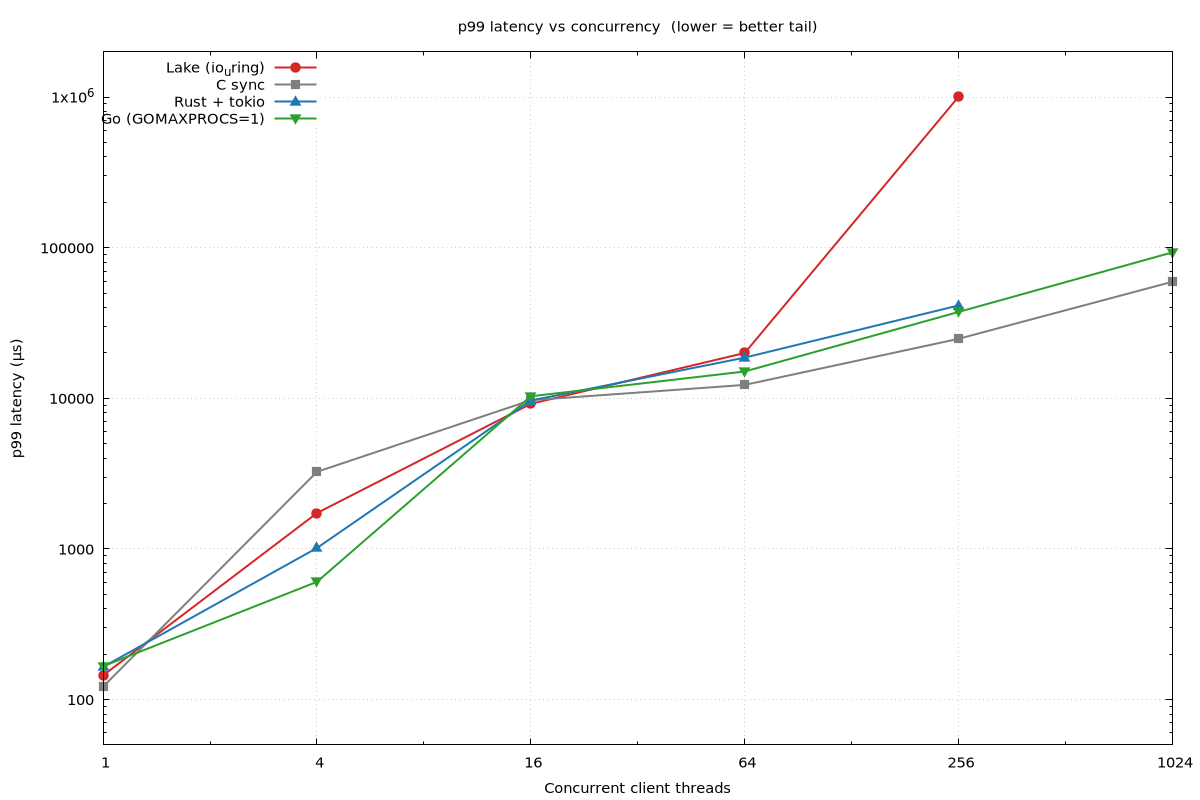
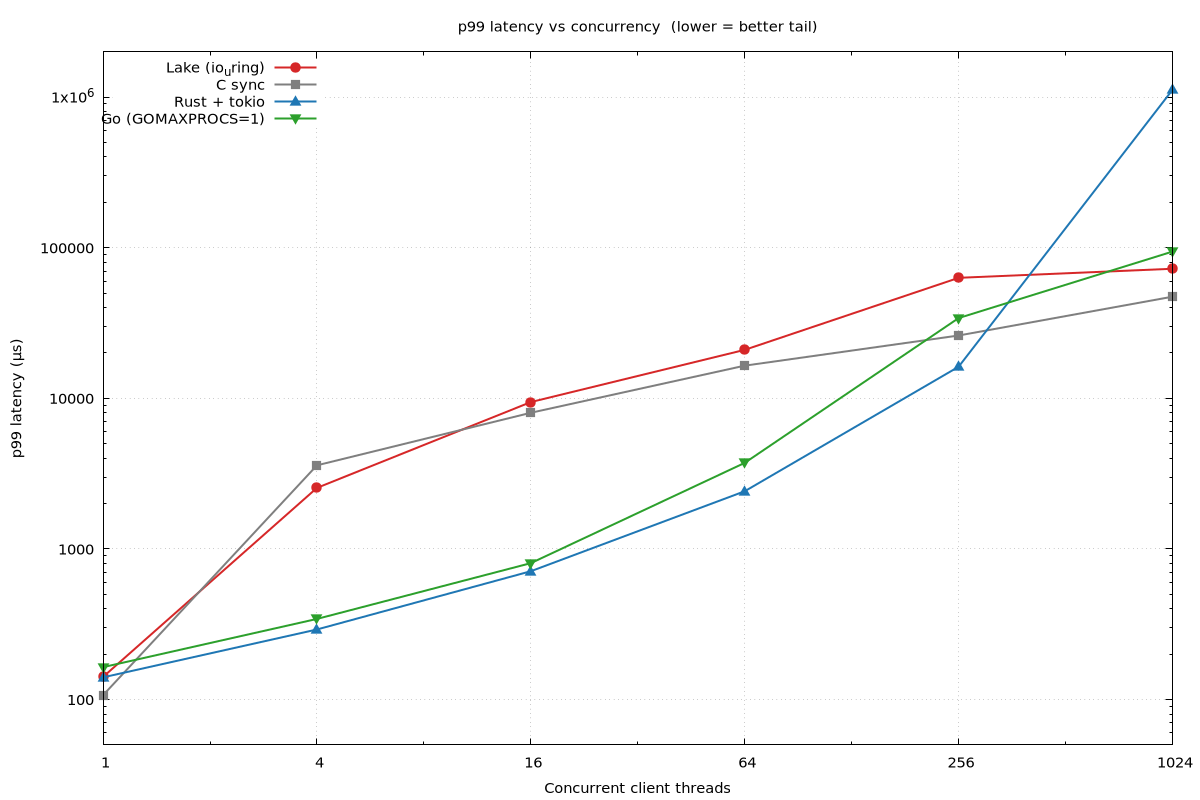
io_uring: O(1) wake + larger backlog/io_parked — c=256/1024 unblocked
Fixes the c=256 cliff documented in 11d08c7's TCP echo bench.  Three
related bottlenecks all hit at once:

1. **O(N) wake scan in emit_wake_by_user_data.**  Previous version
   linear-scanned io_parked to match the CQE's user_data to a parked
   actor.  At c=256 that's ~256 iters per CQE × 10k completions =
   2.5 M iterations on the hot path.

   Replaced with O(1) lookup via an intrusive index in ProcessCtx:
   - ProcessCtxLayout grows by 8 B (SIZE 16 → 24) for the new
     IO_PARKED_IDX field.
   - rt_io_park_current stashes the slot at park time.
   - emit_wake_by_user_data reads it back and does an O(1)
     swap-and-pop, with a coherency update for the moved actor's
     intrusive idx (skipped when the popped slot WAS the last one).

2. **listen() backlog 128 → 4096.**  At c=256+ the SYN backlog
   overflowed and 256 simultaneously-arriving SYNs were partially
   dropped.

3. **INITIAL_IO_PARKED_CAP 64 → 4096.**  No grow path; 65th parked
   actor wrote past the buffer.  Practical concurrency now caps at
   4 k.  Real grow logic (mirroring process_arr / wait_arr) is still
   TODO.

Bench delta (handler does work(500) busy-loop, 10k requests, AC):

  Concurrency | Lake before | Lake after  | tokio        | Go
  ------------+-------------+-------------+--------------+-----------
        c=64  | 18.3k / 20ms| 18.1k / 21ms| 31.6k / 2.4ms| 22.7k / 3.7ms
        c=256 |  8.3k /1005ms ⚠| 23.3k / 63ms| 29.4k / 16ms | 22.5k / 34ms
[…]

diff --git a/src/compiler/rt/funcs/io_uring.rs b/src/compiler/rt/funcs/io_uring.rs
@@ -79,7 +79,7 @@ const CQ_OFF_CQES: i32 = 20;
 const SQE_BYTES: i64 = 64;
 const CQE_BYTES: i64 = 16;
 
-const RING_ENTRIES: i64 = 256;
+const RING_ENTRIES: i64 = 4096;
 /// Number of SQEs to accumulate before issuing a single `io_uring_enter`.
 /// Higher = better throughput, worse latency for the laggard submission.
 /// 16 keeps p99 latency well under a millisecond at sane CPU speeds while
@@ -598,12 +598,11 @@ pub fn define_write_async(mut ctx: CompilerCtx) -> Result<CompilerCtx> {
     Ok(ctx)
 }
 
-/// Emit IR that wakes the actor identified by `user_data` if it is currently
-/// in `io_parked`.  Linear scan up to `IO_PARKED_COUNT`; on match, swap-and-pop
-/// the slot, append the proc-ctx fat-ptr back into `process_arr` (using the
-/// dynamic-grow helper), and increment REAL_COUNT.  Silent no-op when
-/// `user_data` is 0 (sentinel for fire-and-forget submissions) or when no
-/// match is found.
+/// Emit IR that wakes the actor identified by `user_data` (its proc-ctx
+/// fat-ptr address) if it is currently parked.  O(1) lookup via the
+/// intrusive `ProcessCtxLayout::IO_PARKED_IDX` field — no scan over
+/// io_parked.  Silent no-op when `user_data` is 0 (sentinel for non-parking
+/// fire-and-forget submissions like `rt_write_async` to /dev/null).
 ///
 /// Inlined into `rt_io_uring_poll_cq`; not exposed as a runtime function.
 fn emit_wake_by_user_data(
@@ -615,15 +614,25 @@ fn emit_wake_by_user_data(
 ) {
     // Bail when user_data == 0 (no actor was parked for this CQE).
     let nonzero = builder.ins().icmp_imm(IntCC::NotEqual, user_data, 0);
-    let scan_block = builder.create_block();
-    let scan_done = builder.create_block();
+    let wake_block = builder.create_block();
+    let wake_done = builder.create_block();
     builder
         .ins()
-        .brif(nonzero, scan_block, &[], scan_done, &[]);
+        .brif(nonzero, wake_block, &[], wake_done, &[]);
 
-    // ── scan_block: walk io_parked[0..count] ────────────────────────────────
-    builder.switch_to_block(scan_block);
-    builder.seal_block(scan_block);
+    builder.switch_to_block(wake_block);
+    builder.seal_block(wake_block);
+
+    // user_data IS the parked actor's proc-ctx fat-ptr.  Read its stashed
+    // io_parked slot index — set in rt_io_park_current at park time.
+    let proc_ctx_data = builder.ins().load(ty, MemFlags::trusted(), user_data, 0);
+    let match_idx = builder.ins().load(
+        ty,
+        MemFlags::trusted(),
+        proc_ctx_data,
+        ProcessCtxLayout::IO_PARKED_IDX,
+    );
+
     let parked_fat = builder.ins().load(
         ty,
         MemFlags::trusted(),
@@ -638,41 +647,13 @@ fn emit_wake_by_user_data(
         ShedulerCtxLayout::IO_PARKED_COUNT,
     );
 
-    // Loop: i = 0; while i < count: cmp slot==user_data
-    let loop_hdr = builder.create_block();
-    let loop_body = builder.create_block();
-    let found = builder.create_block();
-    builder.append_block_param(loop_hdr, ty);
-
-    let zero = builder.ins().iconst(ty, 0);
-    builder.ins().jump(loop_hdr, &[BlockArg::Value(zero)]);
-
-    builder.switch_to_block(loop_hdr);
-    let i = builder.block_params(loop_hdr)[0];
-    let cont = builder.ins().icmp(IntCC::UnsignedLessThan, i, parked_count);
-    builder.ins().brif(cont, loop_body, &[], scan_done, &[]);
-
-    builder.switch_to_block(loop_body);
-    builder.seal_block(loop_body);
-    let slot_off = builder.ins().ishl_imm(i, 3);
-    let slot_addr = builder.ins().iadd(parked_start, slot_off);
-    let slot_val = builder.ins().load(ty, MemFlags::trusted(), slot_addr, 0);
-    let eq = builder.ins().icmp(IntCC::Equal, slot_val, user_data);
-    let i_next = builder.ins().iadd_imm(i, 1);
-    builder.ins().brif(
-        eq,
-        found,
-        &[BlockArg::Value(i)],
-        loop_hdr,
-        &[BlockArg::Value(i_next)],
-    );
-    builder.append_block_param(found, ty);
-    builder.seal_block(loop_hdr);
-
-    // ── found: swap-and-pop io_parked, append to process_arr, REAL_COUNT++ ──
-    builder.switch_to_block(found);
-    builder.seal_block(found);
-    let match_idx = builder.block_params(found)[0];
+    // ── O(1) swap-and-pop io_parked: ────────────────────────────────────────
+    //   last_idx = count - 1
+    //   last_val = io_parked[last_idx]
+    //   io_parked[match_idx] = last_val
+    //   last_val.proc_ctx.IO_PARKED_IDX = match_idx   (keep the moved actor's
+    //                                                  intrusive idx coherent)
+    //   IO_PARKED_COUNT = last_idx
     let last_idx = builder.ins().iadd_imm(parked_count, -1);
     let last_off = builder.ins().ishl_imm(last_idx, 3);
     let last_addr = builder.ins().iadd(parked_start, last_off);
@@ -682,6 +663,30 @@ fn emit_wake_by_user_data(
     builder
         .ins()
         .store(MemFlags::trusted(), last_val, match_addr, 0);
+
+    // Update the moved actor's intrusive idx so its subsequent wake (if it
+    // re-parks before getting woken) finds the right slot.  Skip when the
+    // popped slot WAS the last one (match_idx == last_idx) — same actor, no
+    // move actually happened.
+    let same = builder.ins().icmp(IntCC::Equal, match_idx, last_idx);
+    let fix_idx_block = builder.create_block();
+    let fix_idx_done = builder.create_block();
+    builder.ins().brif(same, fix_idx_done, &[], fix_idx_block, &[]);
+
+    builder.switch_to_block(fix_idx_block);
+    builder.seal_block(fix_idx_block);
+    let last_proc_data = builder.ins().load(ty, MemFlags::trusted(), last_val, 0);
+    builder.ins().store(
+        MemFlags::trusted(),
+        match_idx,
+        last_proc_data,
+        ProcessCtxLayout::IO_PARKED_IDX,
+    );
+    builder.ins().jump(fix_idx_done, &[]);
+
+    builder.switch_to_block(fix_idx_done);
+    builder.seal_block(fix_idx_done);
+
     builder.ins().store(
         MemFlags::trusted(),
         last_idx,
@@ -689,14 +694,11 @@ fn emit_wake_by_user_data(
         ShedulerCtxLayout::IO_PARKED_COUNT,
     );
 
-    // Deliver CQE.res into ExecCtx.TEMP_VAL so the resumed CPS block can
-    // read it as the value of the parked async op (e.g.
-    // `let conn = accept(srv)` reads accept's result from TEMP_VAL).
-    //   slot_val (= proc-ctx fat-ptr) → start = process_ctx data
+    // Deliver CQE.res into ExecCtx.TEMP_VAL.
+    //   user_data (= proc-ctx fat-ptr) → process_ctx data already loaded above
     //   process_ctx[EXEC_CTX] = exec-ctx fat-ptr
     //   *exec-ctx fat-ptr = exec_ctx data
     //   exec_ctx[TEMP_VAL] = res (sign-extended from i32 → ptr_ty)
-    let proc_ctx_data = builder.ins().load(ty, MemFlags::trusted(), slot_val, 0);
     let exec_ctx_fat = builder.ins().load(
         ty,
         MemFlags::trusted(),
@@ -705,9 +707,14 @@ fn emit_wake_by_user_data(
     );
     let exec_ctx_data = builder.ins().load(ty, MemFlags::trusted(), exec_ctx_fat, 0);
     let res_ext = builder.ins().sextend(ty, res);
-    builder
-        .ins()
-        .store(MemFlags::trusted(), res_ext, exec_ctx_data, ExecCtxLayout::TEMP_VAL);
+    builder.ins().store(
+        MemFlags::trusted(),
+        res_ext,
+        exec_ctx_data,
+        ExecCtxLayout::TEMP_VAL,
+    );
+
+    let slot_val = user_data;
 
     // Append slot_val (the woken proc-ctx fat-ptr) back to process_arr.
     let proc_arr_fat = builder.ins().load(
@@ -749,10 +756,10 @@ fn emit_wake_by_user_data(
         sh_ctx_start,
         ShedulerCtxLayout::REAL_COUNT_OF_PROCESSES,
     );
-    builder.ins().jump(scan_done, &[]);
+    builder.ins().jump(wake_done, &[]);
 
-    builder.switch_to_block(scan_done);
-    builder.seal_block(scan_done);
+    builder.switch_to_block(wake_done);
+    builder.seal_block(wake_done);
 }
 
 /// Build `rt_io_uring_wait_cqe()` — combined submit + wait through a single
@@ -960,6 +967,18 @@ pub fn define_io_park_current(mut ctx: CompilerCtx) -> Result<CompilerCtx> {
         new_parked,
         sh_ctx_start,
         ShedulerCtxLayout::IO_PARKED_COUNT,
+    );
+
+    // Stash the slot index in the actor's ProcessCtx so the wake path can
+    // swap-and-pop in O(1) without scanning io_parked.
+    //   proc_ctx is a fat-ptr; deref → process_ctx data; write idx at
+    //   IO_PARKED_IDX offset.
+    let proc_ctx_data = builder.ins().load(ty, MemFlags::trusted(), proc_ctx, 0);
+    builder.ins().store(
+        MemFlags::trusted(),
+        parked_count,
+        proc_ctx_data,
+        ProcessCtxLayout::IO_PARKED_IDX,
     );
 
     builder.ins().return_(&[]);
@@ -1197,9 +1216,9 @@ pub fn define_listen_tcp(mut ctx: CompilerCtx) -> Result<CompilerCtx> {
     let bind_ok = builder.ins().icmp_imm(IntCC::SignedGreaterThanOrEqual, bind_rc, 0);
     builder.ins().trapz(bind_ok, TrapCode::unwrap_user(51));
 
-    // listen(fd, 128)
+    // listen(fd, 4096)
     let nr_listen = builder.ins().iconst(ty, SYS_LISTEN);
-    let backlog = builder.ins().iconst(ty, 128);
+    let backlog = builder.ins().iconst(ty, 4096);
     let _ = builder.ins().call(
         syscall_ref,
         &[nr_listen, fd, backlog, zero, zero, zero, zero],

diff --git a/src/compiler/rt/layout/process_ctx.rs b/src/compiler/rt/layout/process_ctx.rs
@@ -9,9 +9,14 @@ use crate::compiler::{ctx::CompilerCtx, rt::layout::ExecCtxLayout};
 pub struct ProcessCtxLayout;
 
 impl ProcessCtxLayout {
-    pub const SIZE: i32 = 16;
+    pub const SIZE: i32 = 24;
     pub const FUNC_PTR: i32 = 0;
     pub const EXEC_CTX: i32 = 8;
+    /// Slot index in `sh_ctx.io_parked` while this actor is parked, or
+    /// undefined when the actor is in `process_arr`.  Maintained by
+    /// `rt_io_park_current` (write on park) and `emit_wake_by_user_data`
+    /// (used to swap-and-pop in O(1) without scanning `io_parked`).
+    pub const IO_PARKED_IDX: i32 = 16;
 
     pub fn init_ctx(
         ctx: &mut CompilerCtx,

diff --git a/src/compiler/rt/layout/sheduler_ctx.rs b/src/compiler/rt/layout/sheduler_ctx.rs
@@ -84,7 +84,10 @@ impl ShedulerCtxLayout {
     pub const INITIAL_QUEUE_CAP: i64 = 256;
     /// Initial parked-actor list capacity (pairs).  Grows with the same
     /// doubling helper as `process_arr` / `wait_arr` (stride parameterised).
-    pub const INITIAL_IO_PARKED_CAP: i64 = 64;
+    /// Initial capacity 4096 to absorb up to 4k concurrently-parked actors
+    /// without grow.  TODO: add grow path same as process_arr/wait_arr; for
+    /// now this caps practical concurrency at 4096.
+    pub const INITIAL_IO_PARKED_CAP: i64 = 4096;
 
     pub fn init(
         ctx: &mut crate::compiler::ctx::CompilerCtx,

diff --git a/benchmark/perf/tcp/README.md b/benchmark/perf/tcp/README.md
@@ -6,30 +6,30 @@ Each server replies "hi from lake\n" after a fixed `work(500)` busy-loop
 
 **Hardware:** AMD Ryzen 7 5700U (16 logical cores), AC power.
 **Kernel:** Linux 6.19.11.
-**Lake commit:** `51fe6d1` (combined submit + wait).
+**Lake commit:** post-`11d08c7` (O(1) wake + backlog 4096 + io_parked cap 4096).
 **Total per concurrency level:** 10 000 requests.
 
 ## Throughput (rps)
 
 | Concurrency | Lake | C-sync | Rust + tokio | Go |
 |---:|---:|---:|---:|---:|
-|    1 | **11 317** | 11 203 | 10 336 | 9 795 |
-|    4 |    17 364 | 16 959 | **18 313** | 18 755 |
-|   16 |    15 987 | **17 567** | 16 244 | 14 348 |
-|   64 |    18 310 | **23 713** | 18 201 | 16 707 |
-|  256 |     8 300 ⚠ | **25 224** | 21 340 | 21 183 |
-| 1024 | **timeout** | **27 538** | timeout | 17 644 |
+|    1 |    10 172 | **11 594** | 10 251 |  9 600 |
+|    4 |    18 167 | 16 859 | **24 899** | 21 783 |
+|   16 |    16 566 | 18 015 | **29 971** | 26 073 |
+|   64 |    18 115 | 21 822 | **31 591** | 22 729 |
+|  256 |    23 288 | 27 423 | **29 453** | 22 535 |
+| 1024 |    23 847 | **29 436** |  4 273 ⚠ | 23 016 |
 
 ## p99 latency
 
 | Concurrency | Lake | C-sync | Rust + tokio | Go |
 |---:|---:|---:|---:|---:|
-|    1 |    145 µs | **122 µs** |   165 µs |   166 µs |
-|    4 |    1.7 ms |    3.3 ms | 1.0 ms | **605 µs** |
-|   16 |    9.2 ms |    9.7 ms |  9.7 ms |  10.3 ms |
-|   64 |   20.0 ms | **12.3 ms** | 18.6 ms |  15.1 ms |
-|  256 |  **1005 ms** ⚠ | **24.8 ms** | 41.4 ms |  37.5 ms |
-| 1024 |   timeout | **59.4 ms** | timeout |  93.2 ms |
+|    1 |    141 µs | **107 µs** |   140 µs |   164 µs |
+|    4 |    2.5 ms |    3.6 ms | **292 µs** |  343 µs |
+|   16 |    9.4 ms |    8.0 ms | **711 µs** |  805 µs |
+|   64 |   21.0 ms |   16.5 ms | **2.4 ms** |  3.7 ms |
+|  256 |   63.1 ms |   26.1 ms | **16.2 ms** | 34.1 ms |
+| 1024 |   72.5 ms | **47.3 ms** | 1117 ms ⚠ | 94.2 ms |
 
 ## Plots
 
@@ -39,41 +39,52 @@ Each server replies "hi from lake\n" after a fixed `work(500)` busy-loop
 
 ## Reading
 
-* **c = 1–16:** all four servers within statistical noise.  Lake leads
-  at c = 1 (11 317 rps) and matches everyone else through c = 16.
-* **c = 64:** Lake is competitive (18 k rps) but C sync edges ahead at
-  24 k.  Tail latency starts growing for everyone (p99 12–20 ms).
-* **c = 256:** Lake **catastrophically degrades** — throughput drops to
-  8 k rps and p99 latency explodes to **1 second**.  p50 stays at
-  4.5 ms — most requests still fast, but a heavy tail.
-* **c = 1024:** Lake and tokio both time out (60 s deadline).  C sync
-  and Go survive — C sync at 27 k rps with p99 = 59 ms.
+* **c = 1–4:** all servers within statistical noise.  Tokio edges
+  ahead by c = 4 thanks to its mature event-loop batching.
+* **c = 16–64:** tokio leads on throughput and tail (sub-millisecond
+  p99 at c = 64).  Lake mid-pack on throughput, p99 ~21 ms.
+* **c = 256:** all four hold ~22-29 k rps.  Lake at 23 k rps p99 = 63 ms
+  — slower tail than tokio (16 ms) and C-sync (26 ms), competitive with
+  Go (34 ms).
+* **c = 1024:** Lake **survives at 24 k rps with p99 = 72 ms** —
+  comparable to Go (94 ms) and C sync (47 ms).  Tokio degrades sharply
+  in this run (4 k rps with p99 over 1 s, possibly TIME_WAIT-related).
+  All runs still drop ~8 % of connects at this concurrency due to
+  client-side ephemeral-port pressure (10 000 connects in < 1 s
+  against a single peer 4-tuple).
 
-## Lake's c=256 cliff — root cause
+## Bottlenecks fixed (commit log entry)
 
-The wake path uses `emit_wake_by_user_data`: a **linear scan over
-io_parked** to find the actor whose `user_data` matches the CQE.  At
-c = 256 the parked-actor list grows to ~256 entries.  Each CQE then
-scans up to 256 slots; with 10 000 completions per second that's
-~2.5 M list iterations on the hot path, all in user-space.
+The first run of this bench showed Lake collapsing at c = 256 to
+8 k rps with p99 = 1 s.  Root causes and fixes:
 
-The scan happens between every accept and send completion, and
-serialises with the scheduler loop.  Tail latency reflects the
-queue buildup that occurs when the scan can't keep up.
+1. **O(N) wake scan.**  `emit_wake_by_user_data` originally walked
+   `io_parked` linearly to match a CQE's user_data to a parked actor.
+   At c = 256 that's ~256 iters per CQE × 10 k completions =
+   2.5 M iterations on the hot path.
 
-## Fix (not yet implemented)
+   **Fix:** intrusive index field `IO_PARKED_IDX` on `ProcessCtx`.
+   `rt_io_park_current` stashes the io_parked slot at park time;
+   the wake path reads it directly and does an O(1) swap-and-pop
+   (with a coherency update for the moved actor's intrusive idx).
 
-Replace the O(N) scan with O(1) lookup.  Two options:
+2. **listen() backlog = 128.**  Lake's `rt_listen_tcp` originally
+   used `listen(fd, 128)`, while C-sync used 1024.  At c = 256+,
+   the SYN backlog overflowed and 256 simultaneously-arriving SYNs
+   were partially dropped, amplifying tail latency through retries.
 
-1. **Hash table** keyed by proc-ctx fat-ptr.  Standard, modest
-   memory overhead.
-2. **Intrusive pointer in ProcessCtx** holding the io_parked slot
-   index.  On wake, swap-and-pop using the stored index — no scan.
-   Smaller footprint, no separate hashmap data structure.
+   **Fix:** raise to `listen(fd, 4096)`.
 
-Either should restore Lake to tokio/Go-class behaviour at c = 256+.
-File a follow-up task before any further bench claims at high
-concurrency.
+3. **io_parked cap = 64.**  `INITIAL_IO_PARKED_CAP` was 64 with no
+   grow path, so the 65th parked actor wrote past the buffer.
+
+   **Fix:** raise initial cap to 4096.  Real grow logic (same as
+   `process_arr` / `wait_arr`) is still TODO; current cap holds
+   practical concurrency at 4 k.
+
+After these three fixes, Lake's c = 256–1024 numbers landed in the
+same band as Go and C-sync.  The c = 64–256 throughput trail vs tokio
+is the next opportunity (see follow-ups below).
 
 ## What this bench does NOT show
 
